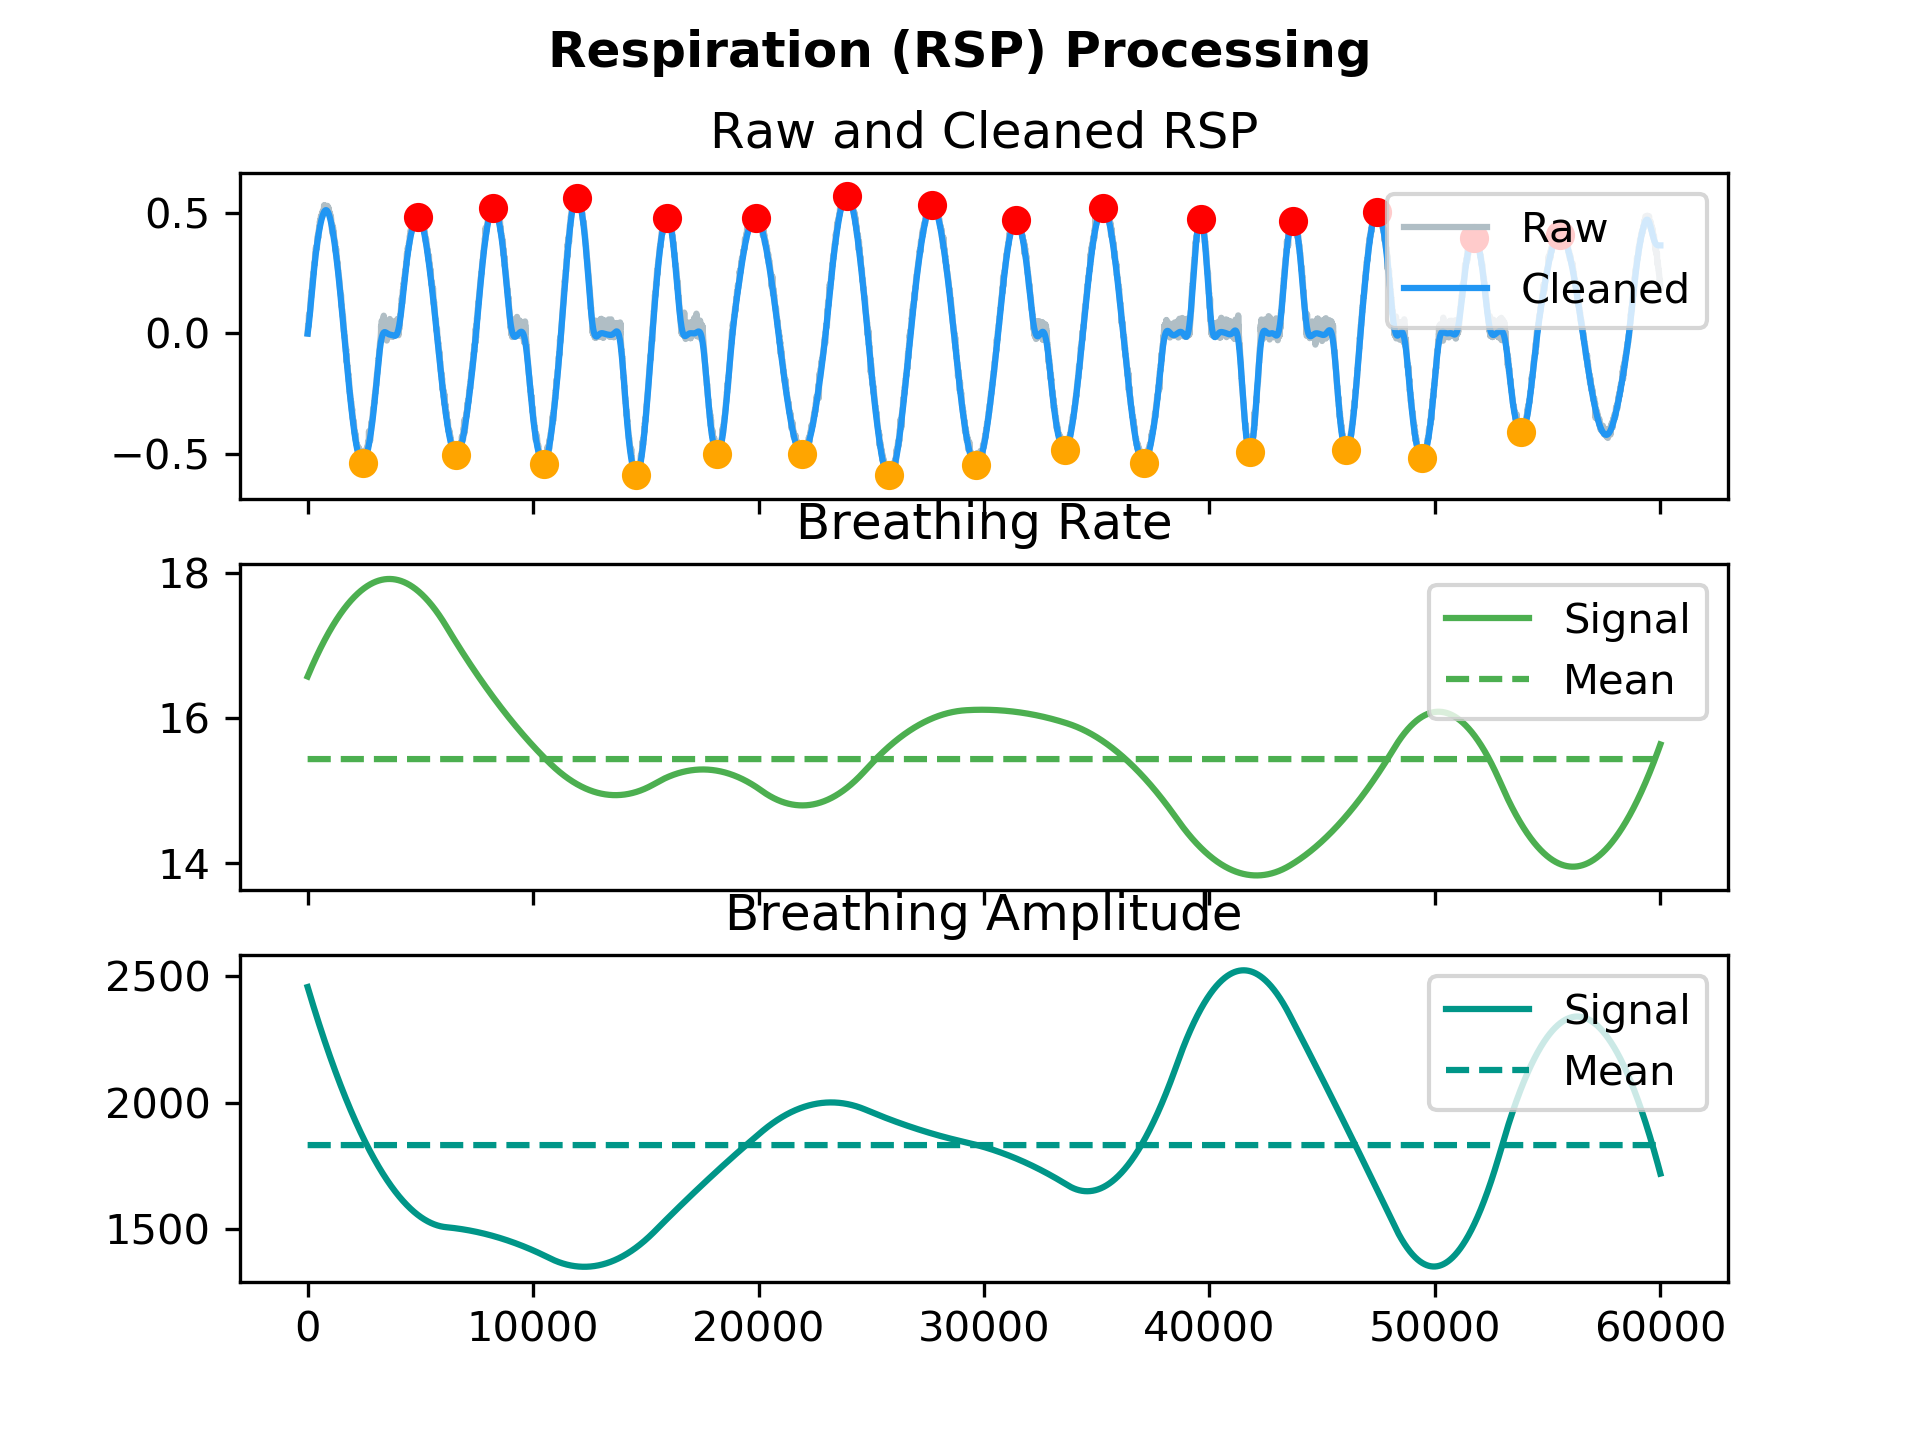
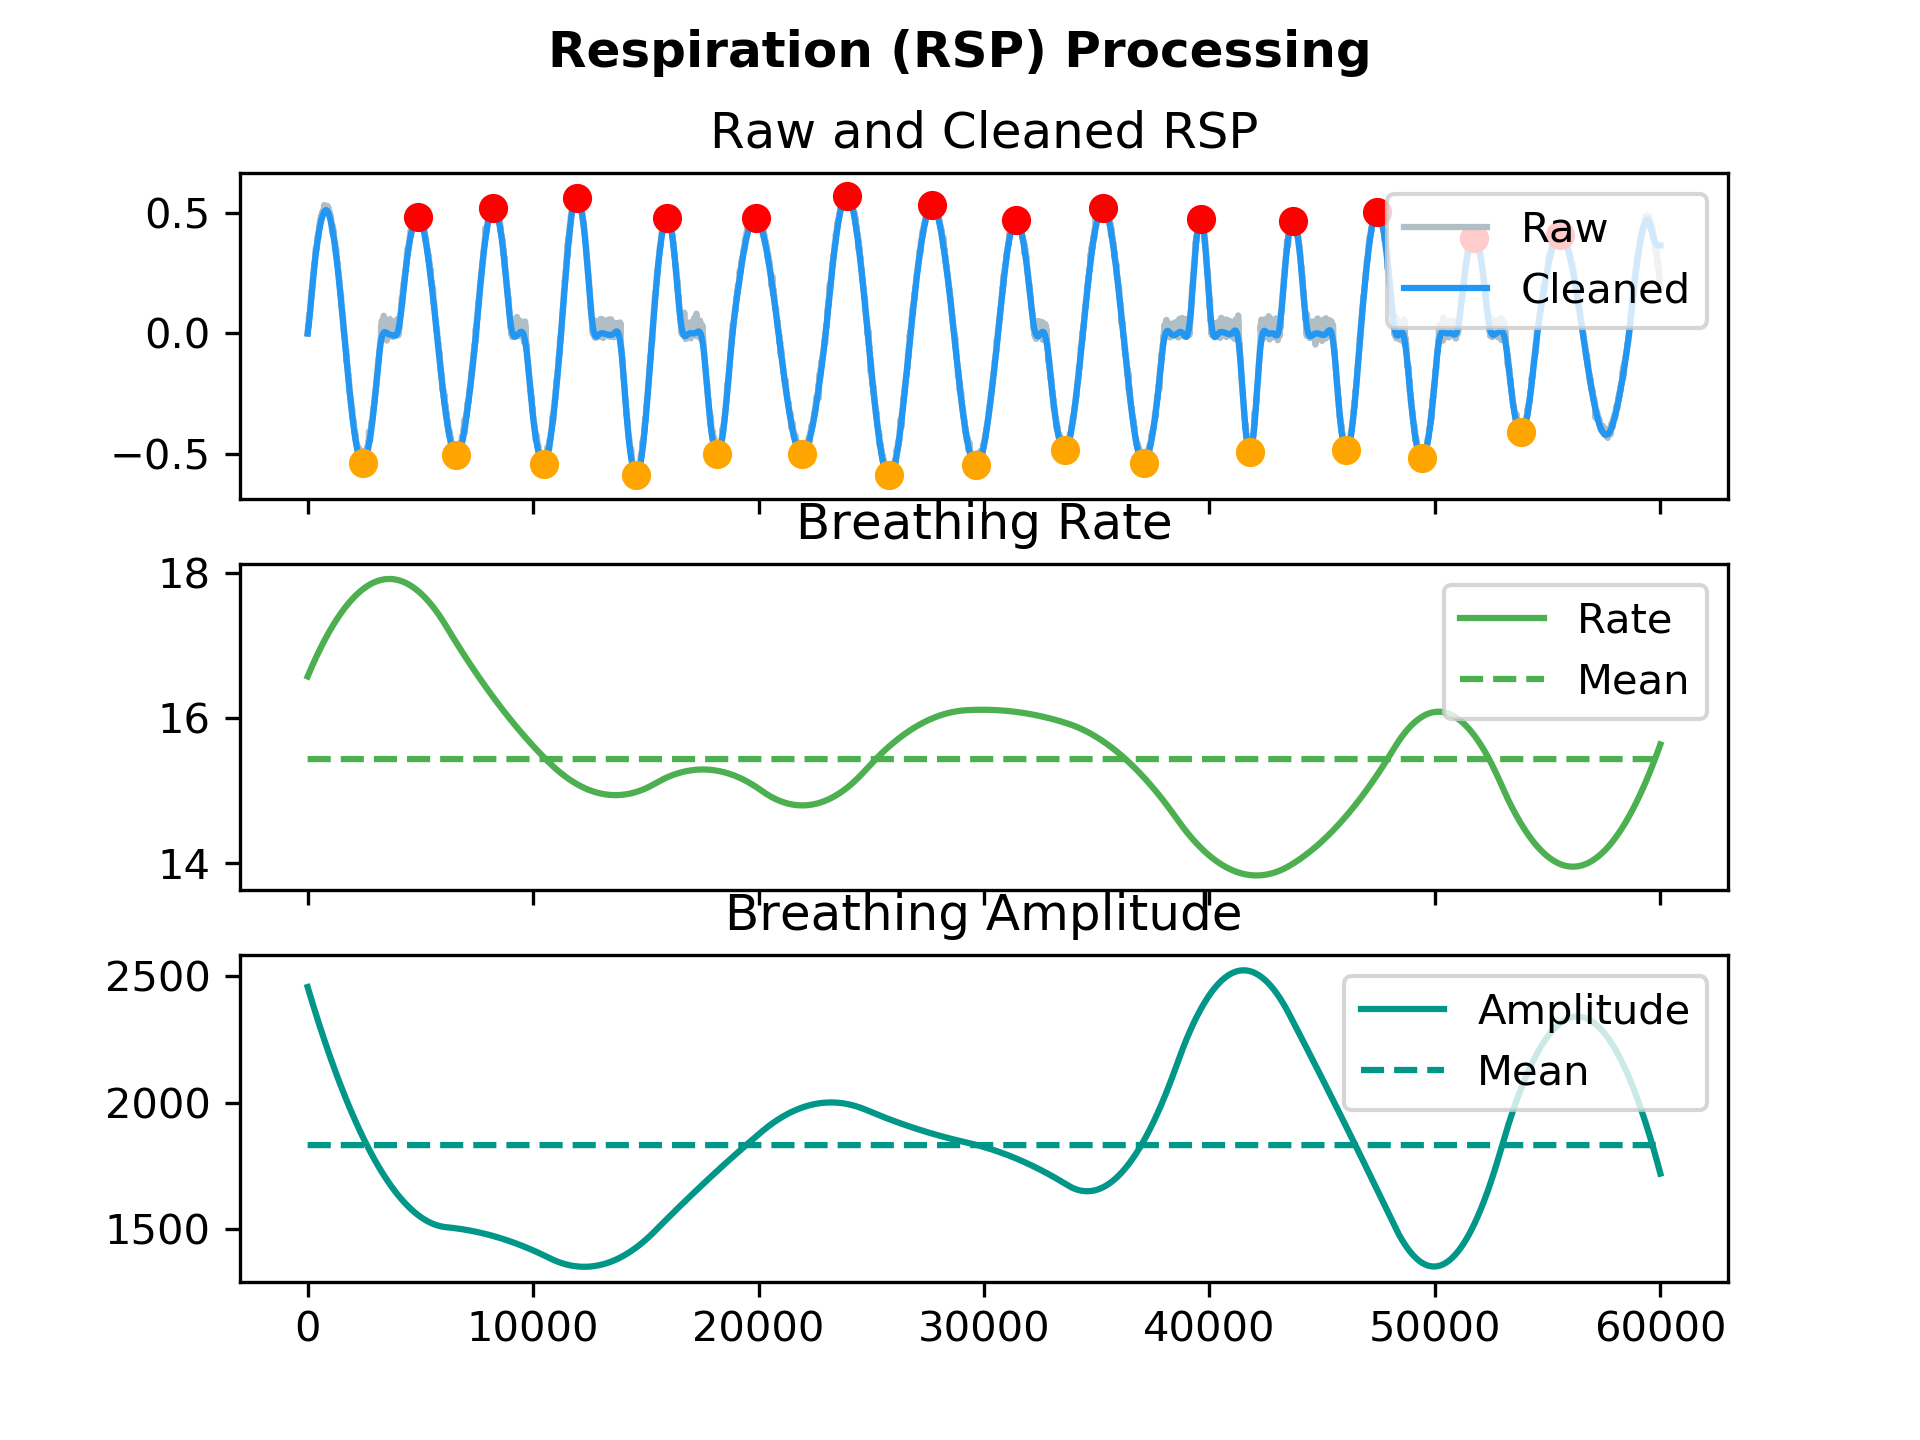
Minor tweaks

Changed region(s): [[0.6875, 0.6875, 0.875, 0.7812], [0.8125, 0.4062, 0.875, 0.5], [0.75, 0.4688, 0.7812, 0.5]]

diff --git a/neurokit2/ecg/ecg_findpeaks.py b/neurokit2/ecg/ecg_findpeaks.py
@@ -44,35 +44,57 @@ def ecg_findpeaks(ecg_cleaned, sampling_rate=1000, method="neurokit",
     --------
     >>>
     """
-    # Determine method and search R-peaks.
-    peakfun = False
-    method = method.lower()
-    if method == "neurokit":
-        peakfun = _ecg_findpeaks_nk
-    elif method == "pamtompkins":
-        peakfun = _ecg_findpeaks_pantompkins
-    if not peakfun:
-        print("NeuroKit error: Please choose a valid method.")
+    # Try retrieving right column
+    if isinstance(ecg_cleaned, pd.DataFrame):
+        try:
+            ecg_cleaned = ecg_cleaned["RSP_Clean"]
+        except NameError:
+            try:
+                ecg_cleaned = ecg_cleaned["ECG_Raw"]
+            except NameError:
+                ecg_cleaned = ecg_cleaned["RSP"]
 
-    peaks = peakfun(signal=ecg_cleaned, sampling_rate=sampling_rate,
-                    enable_plot=enable_plot)
+    cleaned = np.array(ecg_cleaned)
+
+    method = method.lower()  # remove capitalised letters
+
+    # Run peak detection algorithm
+    if method == "neurokit":
+        peaks = _ecg_findpeaks_neurokit(cleaned,
+                                        sampling_rate,
+                                        smoothwindow=.1,
+                                        avgwindow=.75,
+                                        gradthreshweight=1.5,
+                                        minlenweight=0.4,
+                                        mindelay=0.3,
+                                        enable_plot=False)
+    elif method == "pamtompkins":
+        peaks = _ecg_findpeaks_pantompkins()
+    else:
+        raise ValueError("NeuroKit error: ecg_findpeaks(): 'method' should be "
+                         "one of 'neurokit' or 'pamtompkins'.")
+
 
     # Prepare output.
-    peaks_signal = np.zeros(len(ecg_cleaned))
+    peaks_signal = np.zeros(len(cleaned))
     peaks_signal[peaks] = 1
     signals = pd.DataFrame({"ECG_Peaks": peaks_signal})
 
     info = {"ECG_Peaks": peaks}
 
-    return(signals, info)
+    return signals, info
+
+
 
 
 def _ecg_findpeaks_pantompkins():
-    # TODO
-    pass
+    raise ValueError("NeuroKit error: ecg_findpeaks(): pamtompkins 'method' "
+                     "is not implemented yet.")
 
 
-def _ecg_findpeaks_nk(signal, sampling_rate, smoothwindow=.1, avgwindow=.75,
+
+
+def _ecg_findpeaks_neurokit(signal, sampling_rate, smoothwindow=.1, avgwindow=.75,
                       gradthreshweight=1.5, minlenweight=0.4, mindelay=0.3,
                       enable_plot=False):
     """

diff --git a/neurokit2/rsp/rsp_rate.py b/neurokit2/rsp/rsp_rate.py
@@ -30,7 +30,7 @@ def rsp_rate(peaks, troughs=None, sampling_rate=1000, desired_length=None, metho
         desired_length samples. Has not effect if a DataFrame is passed in as
         the peaks argument.
     method : str
-        The processing pipeline to apply. Can be one of 'khodadad2018' or 'biosppy'.
+        The processing pipeline to apply. Can be one of 'khodadad2018' (default) or 'biosppy'.
 
     Returns
     -------
@@ -89,13 +89,8 @@ def rsp_rate(peaks, troughs=None, sampling_rate=1000, desired_length=None, metho
     # Get rate
     rate = 60 / period
 
-    if method.lower() == "biosppy":
-        rate, peaks, troughs = _rsp_rate_outliers(rate, peaks,
-                                                  troughs=troughs,
-                                                  threshold_absolute=35)
-
-        # Smooth with moving average
-        rate = signal_smooth(signal=rate, kernel='boxcar', size=3)
+    # Preprocessing
+    rate, peaks, troughs = _rsp_rate_preprocessing(rate, peaks, troughs=troughs, method=method)
 
     # Interpolate all statistics to length of the breathing signal
     rate = signal_interpolate(rate,
@@ -123,6 +118,31 @@ def rsp_rate(peaks, troughs=None, sampling_rate=1000, desired_length=None, metho
 # =============================================================================
 # Internals
 # =============================================================================
+def _rsp_rate_preprocessing(rate, peaks, troughs=None, method="biosppy"):
+
+    method = method.lower()  # remove capitalised letters
+    if method == "biosppy":
+        rate, peaks, troughs = _rsp_rate_outliers(rate,
+                                                  peaks,
+                                                  troughs=troughs,
+                                                  threshold_absolute=35)
+
+        # Smooth with moving average
+        rate = signal_smooth(signal=rate, kernel='boxcar', size=3)
+
+    elif method == "khodadad2018":
+        pass
+    else:
+        raise ValueError("NeuroKit error: rsp_rate(): 'method' should be "
+                         "one of 'khodadad2018' or 'biosppy'.")
+    return rate, peaks, troughs
+
+
+
+
+
+
+
 def _rsp_rate_outliers(rate, peaks, troughs=None, threshold_absolute=35):
 
     if threshold_absolute is None:

diff --git a/neurokit2/ecg/ecg_clean.py b/neurokit2/ecg/ecg_clean.py
@@ -16,7 +16,7 @@ def ecg_clean(ecg_signal, sampling_rate=1000, method="neurokit"):
         The sampling frequency of `ecg_signal` (in Hz, i.e., samples/second).
         Defaults to 1000.
     method : str
-        The processing pipeline to apply. Defaultsd to "neurokit".
+        The processing pipeline to apply. Can be one of 'neurokit' (default).
 
     Returns
     -------
@@ -29,25 +29,37 @@ def ecg_clean(ecg_signal, sampling_rate=1000, method="neurokit"):
 
     Examples
     --------
+    >>> import numpy as np
+    >>> import pandas as pd
+    >>> import neurokit2 as nk
     >>>
+    >>> ecg = nk.ecg_simulate(duration=10, sampling_rate=1000)
+    >>> signals = pd.DataFrame({
+            "RSP_Raw": ecg,
+            "RSP_NeuroKit": nk.ecg_clean(ecg, sampling_rate=1000, method="neurokit")})
+    >>> signals.plot()
     """
-    # Determine method and clean ECG.
-    cleanfun = False
-    method = method.lower()
-    if method == "neurokit":
-        cleanfun = _ecg_clean_nk
-    if not cleanfun:
-        print("NeuroKit error: Please choose a valid method.")
-        return
-
-    clean = cleanfun(signal=ecg_signal, sampling_rate=sampling_rate)
-
+    method = method.lower()  # remove capitalised letters
+    if method in ["neurokit", "nk"]:
+        clean = _ecg_clean_nk(ecg_signal, sampling_rate=sampling_rate)
+    else:
+        raise ValueError("NeuroKit error: ecg_clean(): 'method' should be "
+                         "one of 'neurokit'.")
     return clean
 
 
+
+
+
+# =============================================================================
+# Neurokit
+# =============================================================================
 def _ecg_clean_nk(signal, sampling_rate):
 
     # Remove slow drift and dc offset with highpass Butterworth.
-    clean = signal_filter(signal=signal, sampling_rate=sampling_rate,
-                          lowcut=.5, method="butterworth", order=5)
+    clean = signal_filter(signal=signal,
+                          sampling_rate=sampling_rate,
+                          lowcut=.5,
+                          method="butterworth",
+                          order=5)
     return clean

diff --git a/neurokit2/rsp/rsp_findpeaks.py b/neurokit2/rsp/rsp_findpeaks.py
@@ -17,7 +17,7 @@ def rsp_findpeaks(rsp_cleaned, method="khodadad2018", outlier_threshold=0.3):
     rsp_cleaned : list, array or Series
         The cleaned respiration channel as returned by `rsp_clean`
     method : str
-        The processing pipeline to apply. Can be one of 'khodadad2018' or 'biosppy'.
+        The processing pipeline to apply. Can be one of 'khodadad2018' (default) or 'biosppy'.
     outlier_threshold : float
         Extrema that have a vertical distance smaller than (outlier_threshold *
         average vertical distance) to any direct neighbour are removed as
@@ -56,7 +56,7 @@ def rsp_findpeaks(rsp_cleaned, method="khodadad2018", outlier_threshold=0.3):
     # Try retrieving right column
     if isinstance(rsp_cleaned, pd.DataFrame):
         try:
-            rsp_cleaned = rsp_cleaned["RSP_Filtered"]
+            rsp_cleaned = rsp_cleaned["RSP_Clean"]
         except NameError:
             try:
                 rsp_cleaned = rsp_cleaned["RSP_Raw"]
@@ -67,10 +67,14 @@ def rsp_findpeaks(rsp_cleaned, method="khodadad2018", outlier_threshold=0.3):
 
 
     # Find peaks
-    if method.lower() in ["khodadad", "khodadad2018"]:
+    method = method.lower()  # remove capitalised letters
+    if method in ["khodadad", "khodadad2018"]:
         peaks, troughs = _rsp_findpeaks_khodadad(cleaned, outlier_threshold)
-    elif method.lower() == "biosppy":
+    elif method == "biosppy":
         peaks, troughs = _rsp_findpeaks_biosppy(cleaned)
+    else:
+        raise ValueError("NeuroKit error: rsp_findpeaks(): 'method' should be "
+                         "one of 'khodadad2018' or 'biosppy'.")
 
 
     # Prepare output
@@ -84,7 +88,7 @@ def rsp_findpeaks(rsp_cleaned, method="khodadad2018", outlier_threshold=0.3):
 
     info = {"RSP_Peaks": peaks,
             "RSP_Troughs": troughs}
-    return(signals, info)
+    return signals, info
 
 
 

diff --git a/neurokit2/rsp/rsp_clean.py b/neurokit2/rsp/rsp_clean.py
@@ -22,7 +22,7 @@ def rsp_clean(rsp_signal, sampling_rate=1000, method="khodadad2018"):
     sampling_rate : int
         The sampling frequency of rsp_signal (in Hz, i.e., samples/second).
     method : str
-        The processing pipeline to apply. Can be one of 'khodadad2018' or 'biosppy'.
+        The processing pipeline to apply. Can be one of 'khodadad2018' (default) or 'biosppy'.
 
     Returns
     -------
@@ -46,12 +46,13 @@ def rsp_clean(rsp_signal, sampling_rate=1000, method="khodadad2018"):
             "RSP_BioSPPy": nk.rsp_clean(rsp, sampling_rate=50, method="biosppy")})
     >>> signals.plot()
     """
-    if method.lower() in ["khodadad", "khodadad2018"]:
+    method = method.lower()  # remove capitalised letters
+    if method in ["khodadad", "khodadad2018"]:
         clean = _rsp_clean_khodadad2018(rsp_signal, sampling_rate)
-    elif method.lower() == "biosppy":
+    elif method == "biosppy":
         clean = _rsp_clean_biosppy(rsp_signal, sampling_rate)
     else:
-        raise ValueError("NeuroKit error: rsp_clean(): 'defaults' should be "
+        raise ValueError("NeuroKit error: rsp_clean(): 'method' should be "
                          "one of 'khodadad2018' or 'biosppy'.")
 
     return clean

diff --git a/neurokit2/rsp/rsp_plot.py b/neurokit2/rsp/rsp_plot.py
@@ -67,7 +67,7 @@ def rsp_plot(rsp_signals, sampling_rate=None):
     # Rate
     ax1.set_title("Breathing Rate")
 #    ax1.set_ylabel('Inhales per minute')
-    ax1.plot(x_axis, rsp_signals["RSP_Rate"], color='#4CAF50', label='Signal')
+    ax1.plot(x_axis, rsp_signals["RSP_Rate"], color='#4CAF50', label='Rate')
     rate_mean = [np.mean(rsp_signals["RSP_Rate"])]*len(rsp_signals["RSP_Rate"])
     ax1.plot(x_axis, rate_mean, label='Mean', linestyle='--', color='#4CAF50')
     ax1.legend(loc='upper right')
@@ -76,7 +76,7 @@ def rsp_plot(rsp_signals, sampling_rate=None):
         ax2.set_title("Breathing Amplitude")
 #        ax2.set_ylabel('a.u.')
 
-        ax2.plot(x_axis, rsp_signals["RSP_Amplitude"], color='#009688', label='Signal')
+        ax2.plot(x_axis, rsp_signals["RSP_Amplitude"], color='#009688', label='Amplitude')
         amplitude_mean = [np.mean(rsp_signals["RSP_Amplitude"])]*len(rsp_signals["RSP_Amplitude"])
         ax2.plot(x_axis, amplitude_mean, label='Mean', linestyle='--', color='#009688')
         ax2.legend(loc='upper right')

diff --git a/tests/tests_ecg.py b/tests/tests_ecg.py
@@ -53,9 +53,9 @@ def test_ecg_findpeaks():
     signals, info = nk.ecg_findpeaks(ecg_cleaned_nk, method="neurokit")
 
     assert signals.shape == (10000, 1)
-    assert signals["ECG_Peaks"].sum() == 11
+    assert np.allclose(signals["ECG_Peaks"].values.sum(dtype=np.int64), 11)
     assert info["ECG_Peaks"].shape[0] == 11
-    assert info["ECG_Peaks"].sum() == 56552
+    assert np.allclose(info["ECG_Peaks"].values.sum(dtype=np.int64), 56552)
 
 
 def test_ecg_rate():

diff --git a/neurokit2/rsp/rsp_process.py b/neurokit2/rsp/rsp_process.py
@@ -19,7 +19,7 @@ def rsp_process(rsp_signal, sampling_rate=1000, method="khodadad2018"):
     sampling_rate : int
         The sampling frequency of rsp_signal (in Hz, i.e., samples/second).
     method : str
-        The processing pipeline to apply. Can be one of 'khodadad2018' or 'biosppy'.
+        The processing pipeline to apply. Can be one of 'khodadad2018' (default) or 'biosppy'.
 
     Returns
     -------
